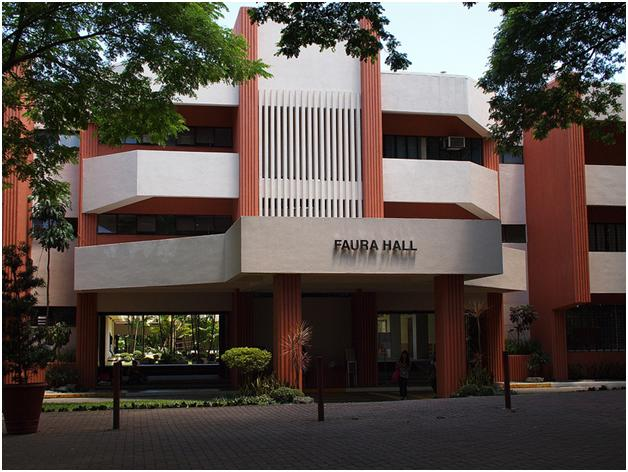
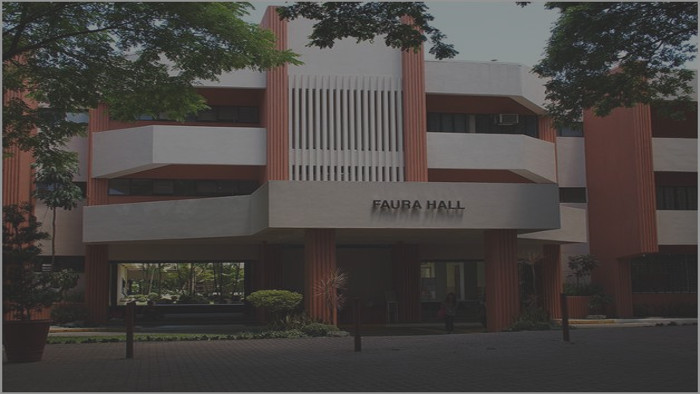
Modified som assets

diff --git a/app/assets/stylesheets/site.scss b/app/assets/stylesheets/site.scss
@@ -12,6 +12,13 @@ html, body {
   width: 100%;
 }
 
+.backdrop-som {
+  background: asset-url('backdrop-som.jpg') no-repeat center center fixed;
+  background-size: cover;
+  height: 30%;
+  width: 100%;
+}
+
 
 .navbar {
   padding: .8rem;

diff --git a/config/routes.rb b/config/routes.rb
@@ -4,6 +4,7 @@ Rails.application.routes.draw do
   get "/rcw_faculty", to: "pages#rcw_faculty"
   get "/ls/sose", to: "pages#sose", as: :sose
   get "/ls/som", to: "pages#som", as: :som
+  get "/ls/som/download_organizational_matrix", to: "pages#som_download_organizational_matrix", as: :som_download_organizational_matrix
   get "/ls/soh", to: "pages#soh", as: :soh
   get "/ls/soss", to: "pages#soss", as: :soss
   get "/urc", to: "pages#urc"

diff --git a/app/controllers/pages_controller.rb b/app/controllers/pages_controller.rb
@@ -19,4 +19,12 @@ class PagesController < ApplicationController
 
   def urc
   end
+
+  def som_download_organizational_matrix
+    send_file(
+      "#{Rails.root}/files/som-organizational-matrix.pptx",
+      filename: "som-organizational-matrix.pptx",
+      type: "application/vnd.openxmlformats-officedocument.presentationml.presentation"
+    )
+  end
 end
